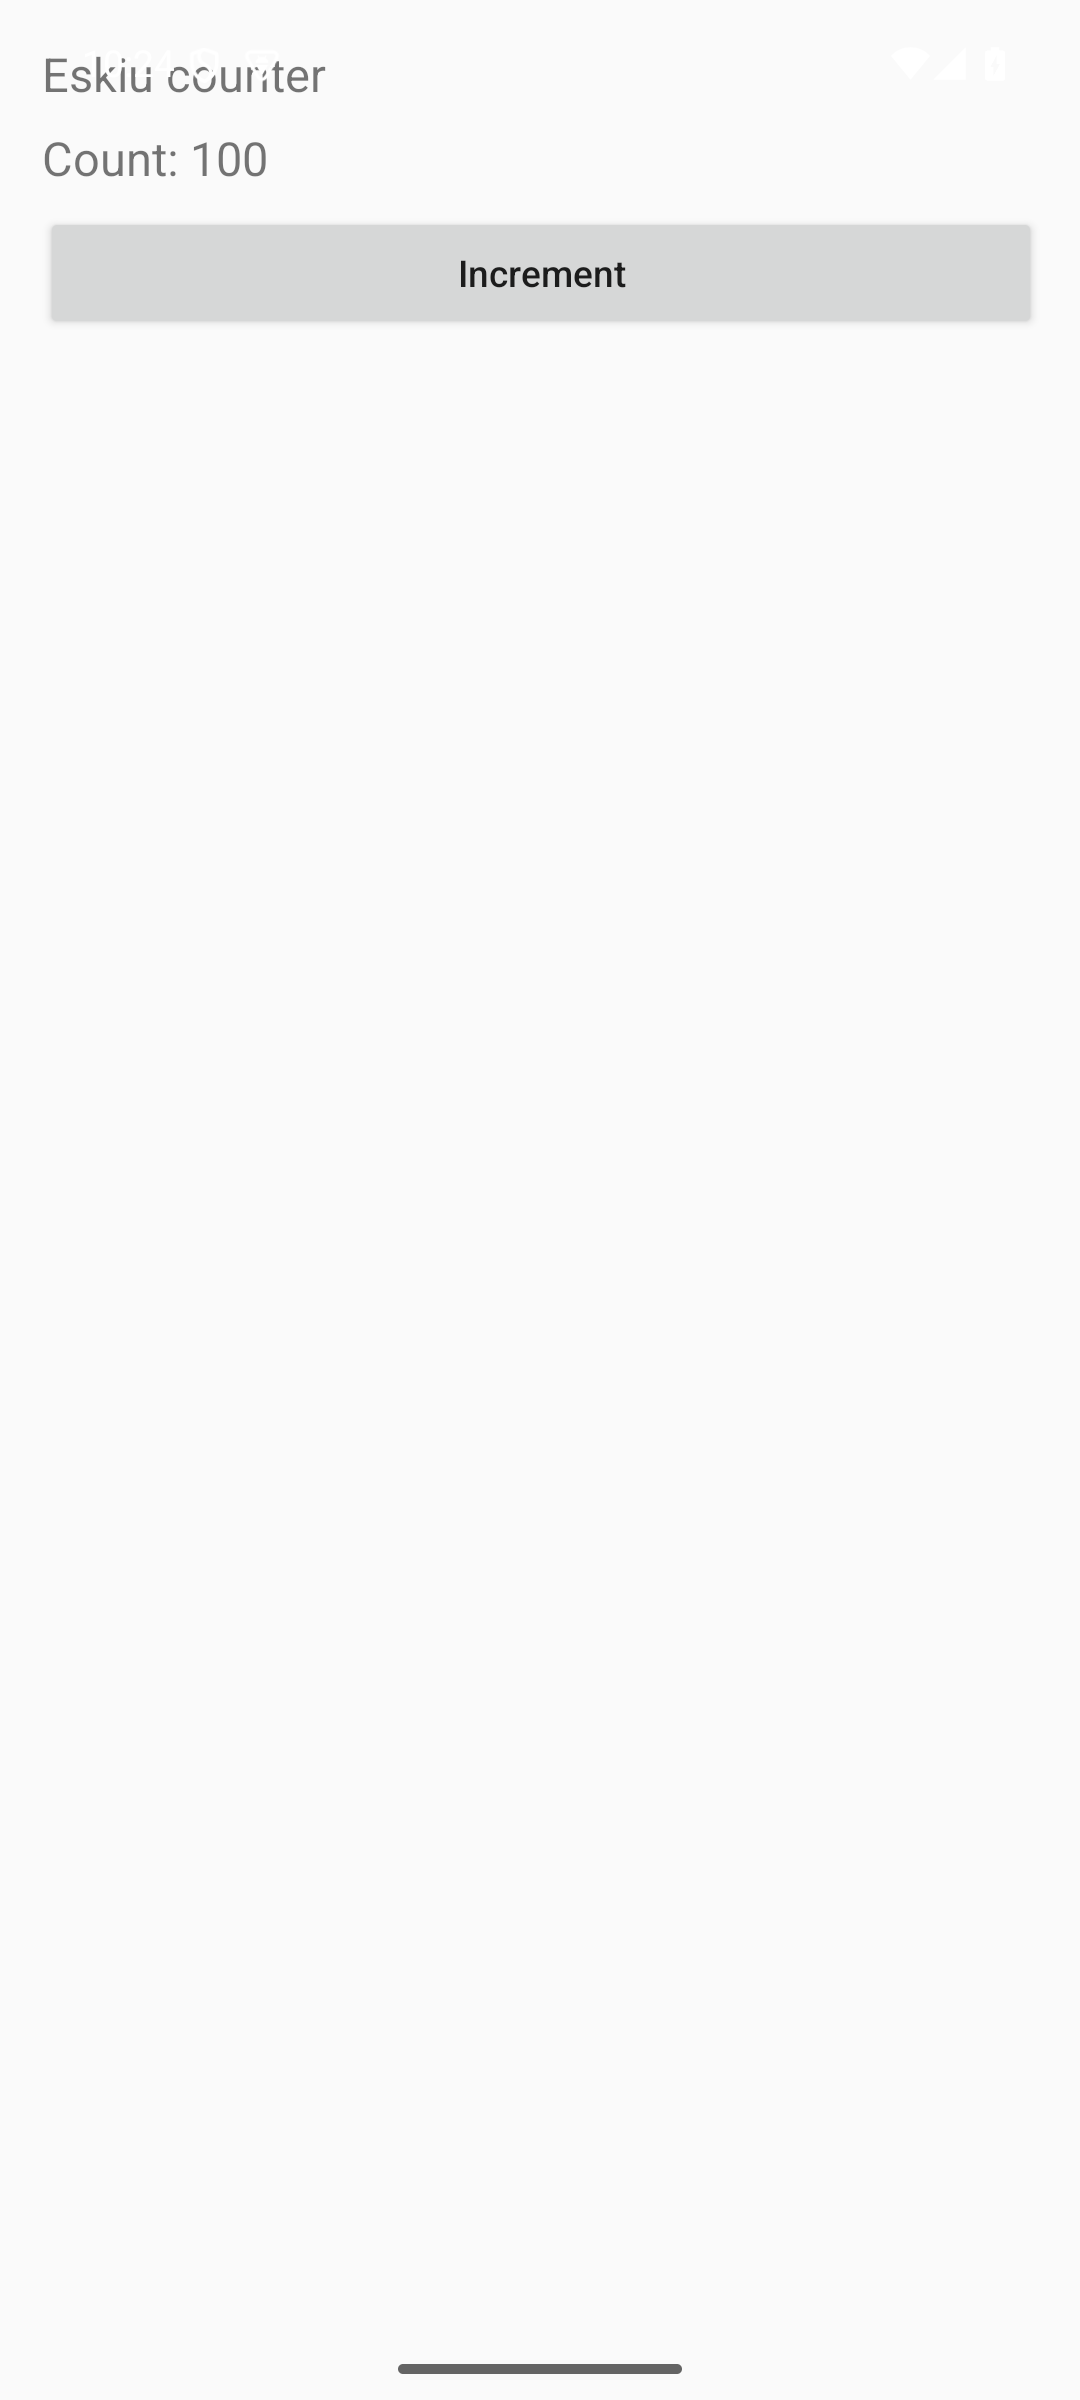
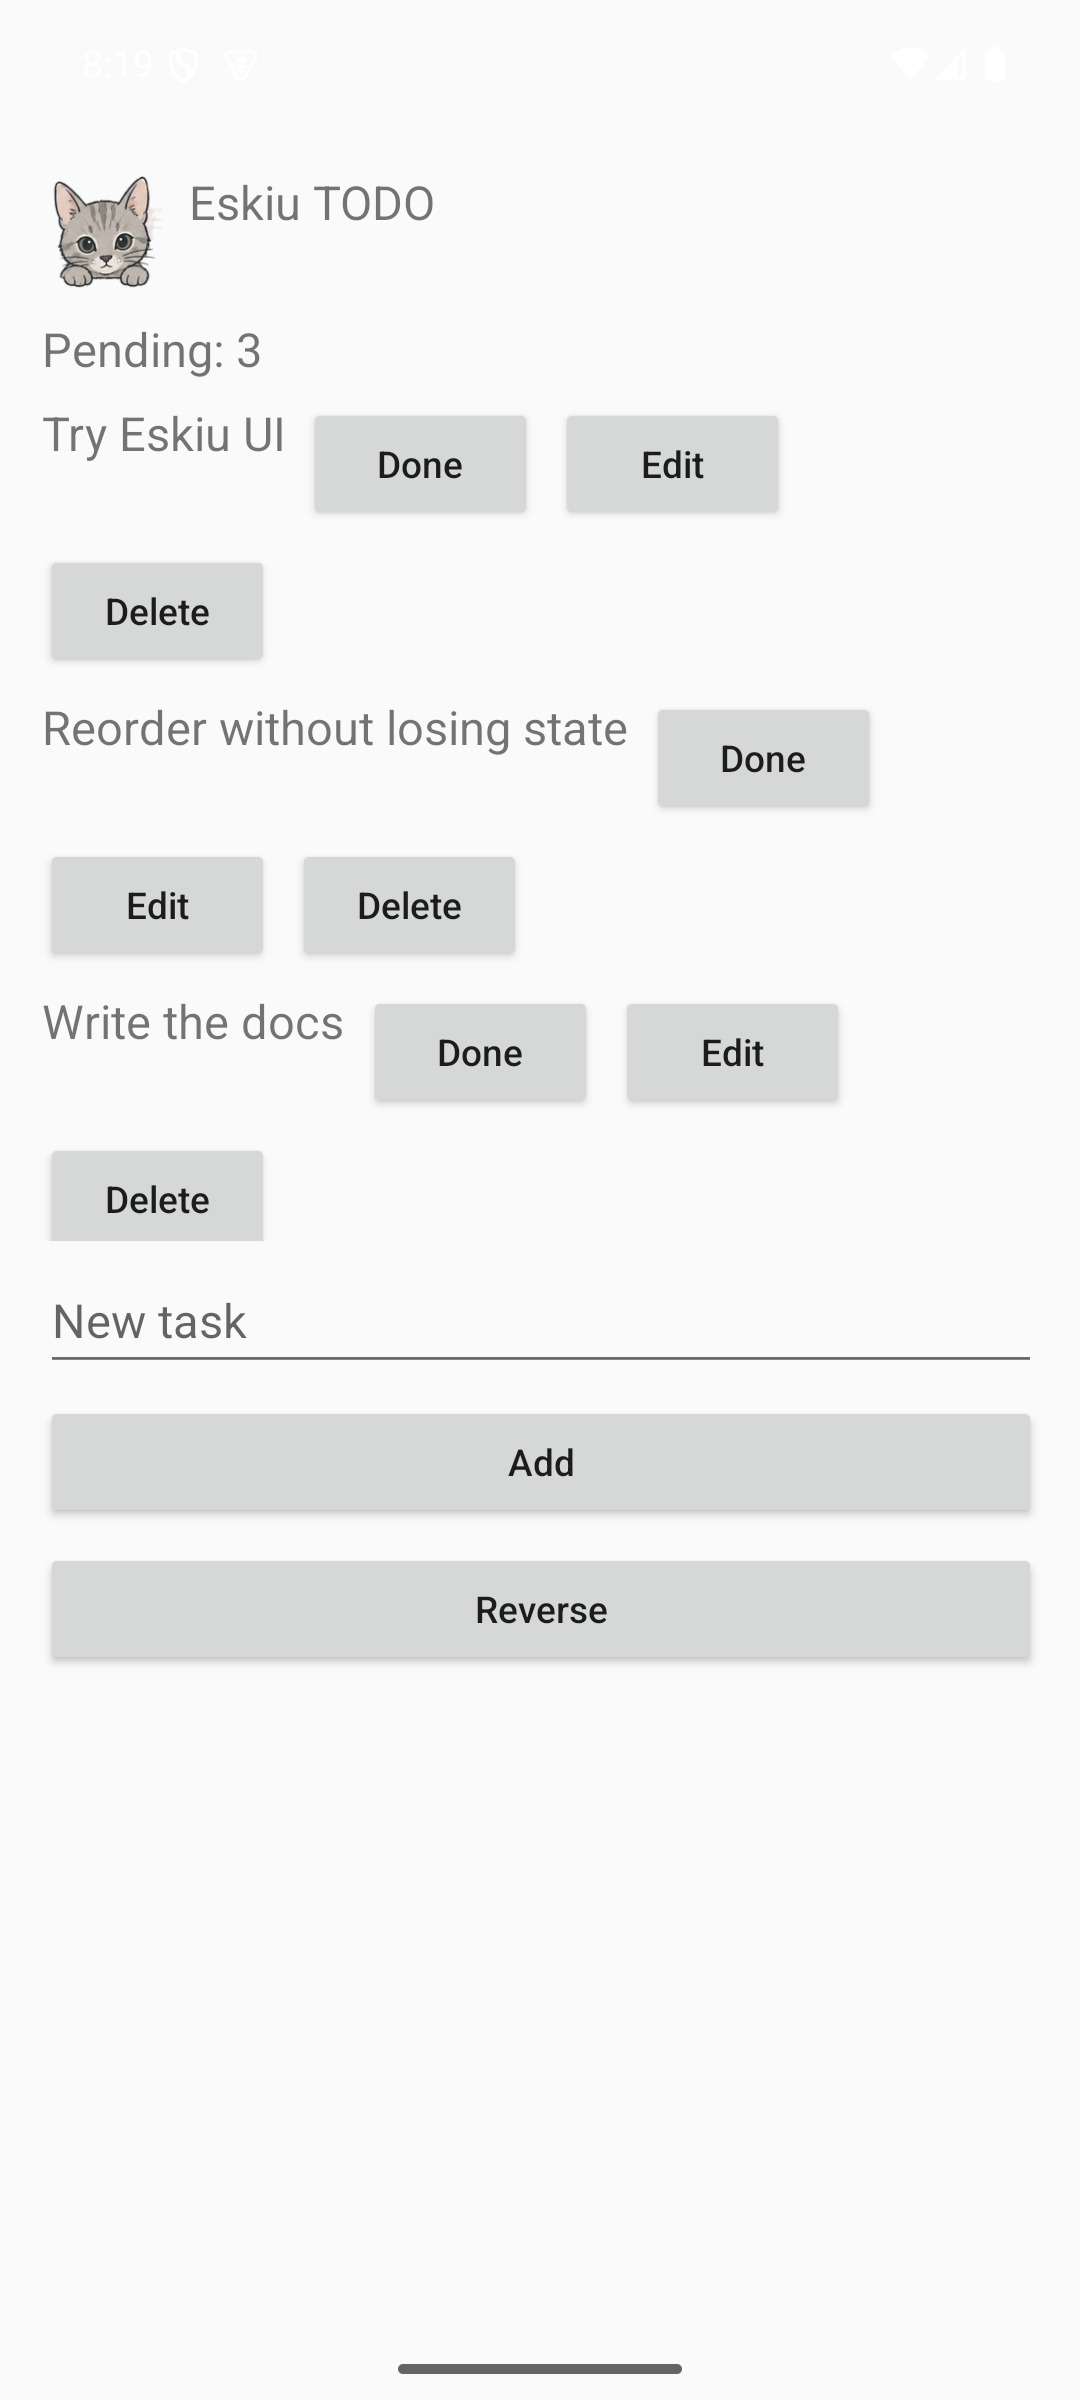
wrap on every host, todo rows wrap; screenshots

diff --git a/web/index.html b/web/index.html
@@ -13,7 +13,8 @@
   #app button:focus-visible { outline: 3px solid #81a9ee; outline-offset: 2px; }
   aside { margin-top: 1.5rem; padding: 1rem; border: 1px solid #d8dfe8; border-radius: 8px; }
   output { display: block; margin-top: .75rem; white-space: pre-wrap; font: 14px ui-monospace, monospace; }
-  #app:not(.conformance) [data-kind="2"] { align-items: center; flex-wrap: wrap; border-top: 1px solid #e6eaf0; padding-top: .5rem; }
+  #app:not(.conformance) [data-kind="2"] { align-items: center; border-top: 1px solid #e6eaf0; padding-top: .5rem; }
+  #app input { font: inherit; padding: .4rem .6rem; border: 1px solid #c5cedd; border-radius: 6px; }
 </style>
 <nav><a href="?example=counter">Counter</a><a href="?example=todo">TODO</a></nav>
 <div id="app" aria-label="Eskiu demo"></div>

diff --git a/android/host.cpp b/android/host.cpp
@@ -72,6 +72,7 @@ extern "C" void ui_host_apply(int op, int id, int generation, int parent, int be
             else if (kind == 4) { if (before) YGNodeStyleSetWidth(node, before); else YGNodeStyleSetWidthAuto(node); }
             else if (kind == 5) { if (before) YGNodeStyleSetHeight(node, before); else YGNodeStyleSetHeightAuto(node); }
             else if (kind == 6) YGNodeStyleSetFlexGrow(node, before);
+            else if (kind == 7) YGNodeStyleSetFlexWrap(node, before ? YGWrapWrap : YGWrapNoWrap);
         }
         else if (op == 3) YGNodeMarkDirty(node);
         else if (op == 4 || op == 5) {

diff --git a/tools/check_android.py b/tools/check_android.py
@@ -70,7 +70,7 @@ run([*adb, "push", BUILD / "model", remote], stdout=subprocess.DEVNULL)
 report["runtime"] = subprocess.check_output([*adb, "shell", remote], text=True, timeout=60)
 assert "PASS leak gates" in report["runtime"]
 # Capture after the runtime gate, once the app's launch animation has settled.
-with (shots / "counter-android.png").open("wb") as shot:
+with (shots / "todo-android.png").open("wb") as shot:
     run([*adb, "exec-out", "screencap", "-p"], stdout=shot)
 (HERE / "build/android-results.json").write_text(json.dumps(report, indent=2) + "\n")
 print(json.dumps(report, indent=2))

diff --git a/ios/host.mm b/ios/host.mm
@@ -190,6 +190,7 @@ extern "C" void ui_host_apply(int op, int id, int generation, int parent,
         } else if (kind == 5) {
             if (before) YGNodeStyleSetHeight(node.yoga, before); else YGNodeStyleSetHeightAuto(node.yoga);
         } else if (kind == 6) YGNodeStyleSetFlexGrow(node.yoga, before);
+        else if (kind == 7) YGNodeStyleSetFlexWrap(node.yoga, before ? YGWrapWrap : YGWrapNoWrap);
     } else if (op == 9) {
         NSString *value = text && text[0] ? [NSString stringWithUTF8String:text] : nil;
         if (kind == 1) node.view.accessibilityLabel = value;
